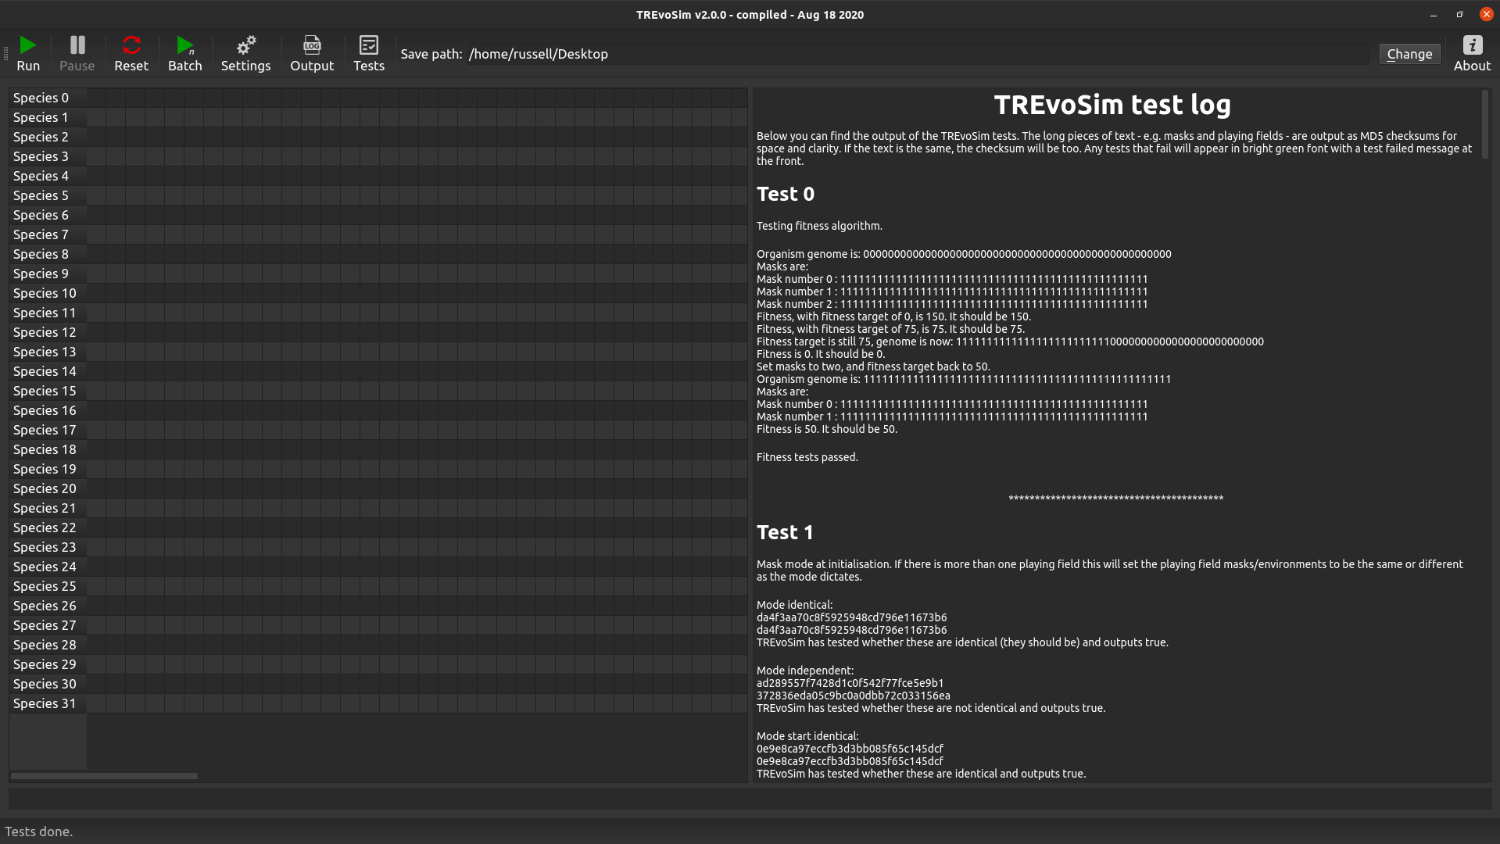
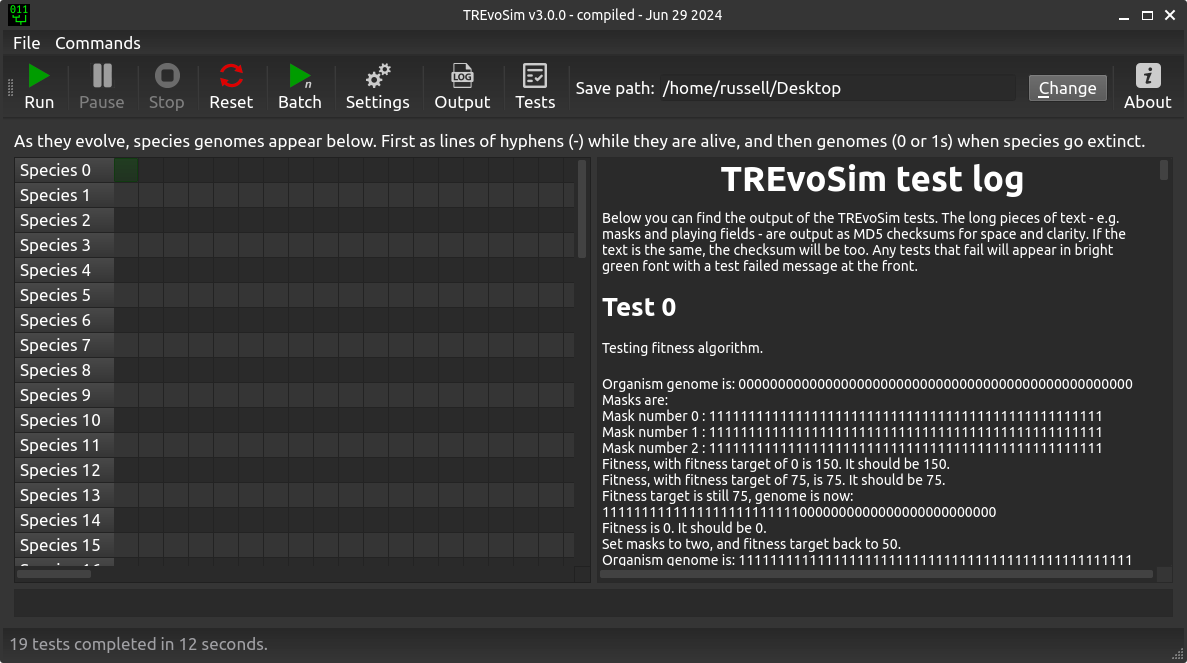
Update docs tests = issue #43

diff --git a/docs/software_tests.rst b/docs/software_tests.rst
@@ -1,0 +1,15 @@
+.. _software_tests:
+.. include:: <isonum.txt>
+
+Tests
+=====
+
+TREvoSim has tests covering every function used in the simulation process. If you are a user, and would like to see the outputs of the tests, then this is possible by hitting the Test button on the toolbar menu, or Tests in the command menu. When this is selected, the main window is first split into two, and the software runs its test suite. The output of the results is then displayed on the panel on the right, shown below.
+
+.. figure:: _static/windowLayout_test.png
+
+If you are working on the TREvoSim code, and wish to check all tests are passing, you can do this by either running them in the software as outlined above, or using the option within QtCreator (Tools |rarr| Tests |rarr| Run all tests...). The latter is faster. 
+
+As such, it is possible to check TREvoSim is running as expected and described in the publications introducing the model (you can alternatively/additionally output a working log to check the internal workings of the software - see :ref:`loggingsim`). 
+
+The output in the test log describes each test, and also the expected output. The system then makes sure the output meets these expectations. Failed tests will be highlighted in green.

diff --git a/docs/index.rst b/docs/index.rst
@@ -45,4 +45,4 @@ Table of Contents
    settings2
    loggingsim
    filecommands
-   tests
+   software_tests
